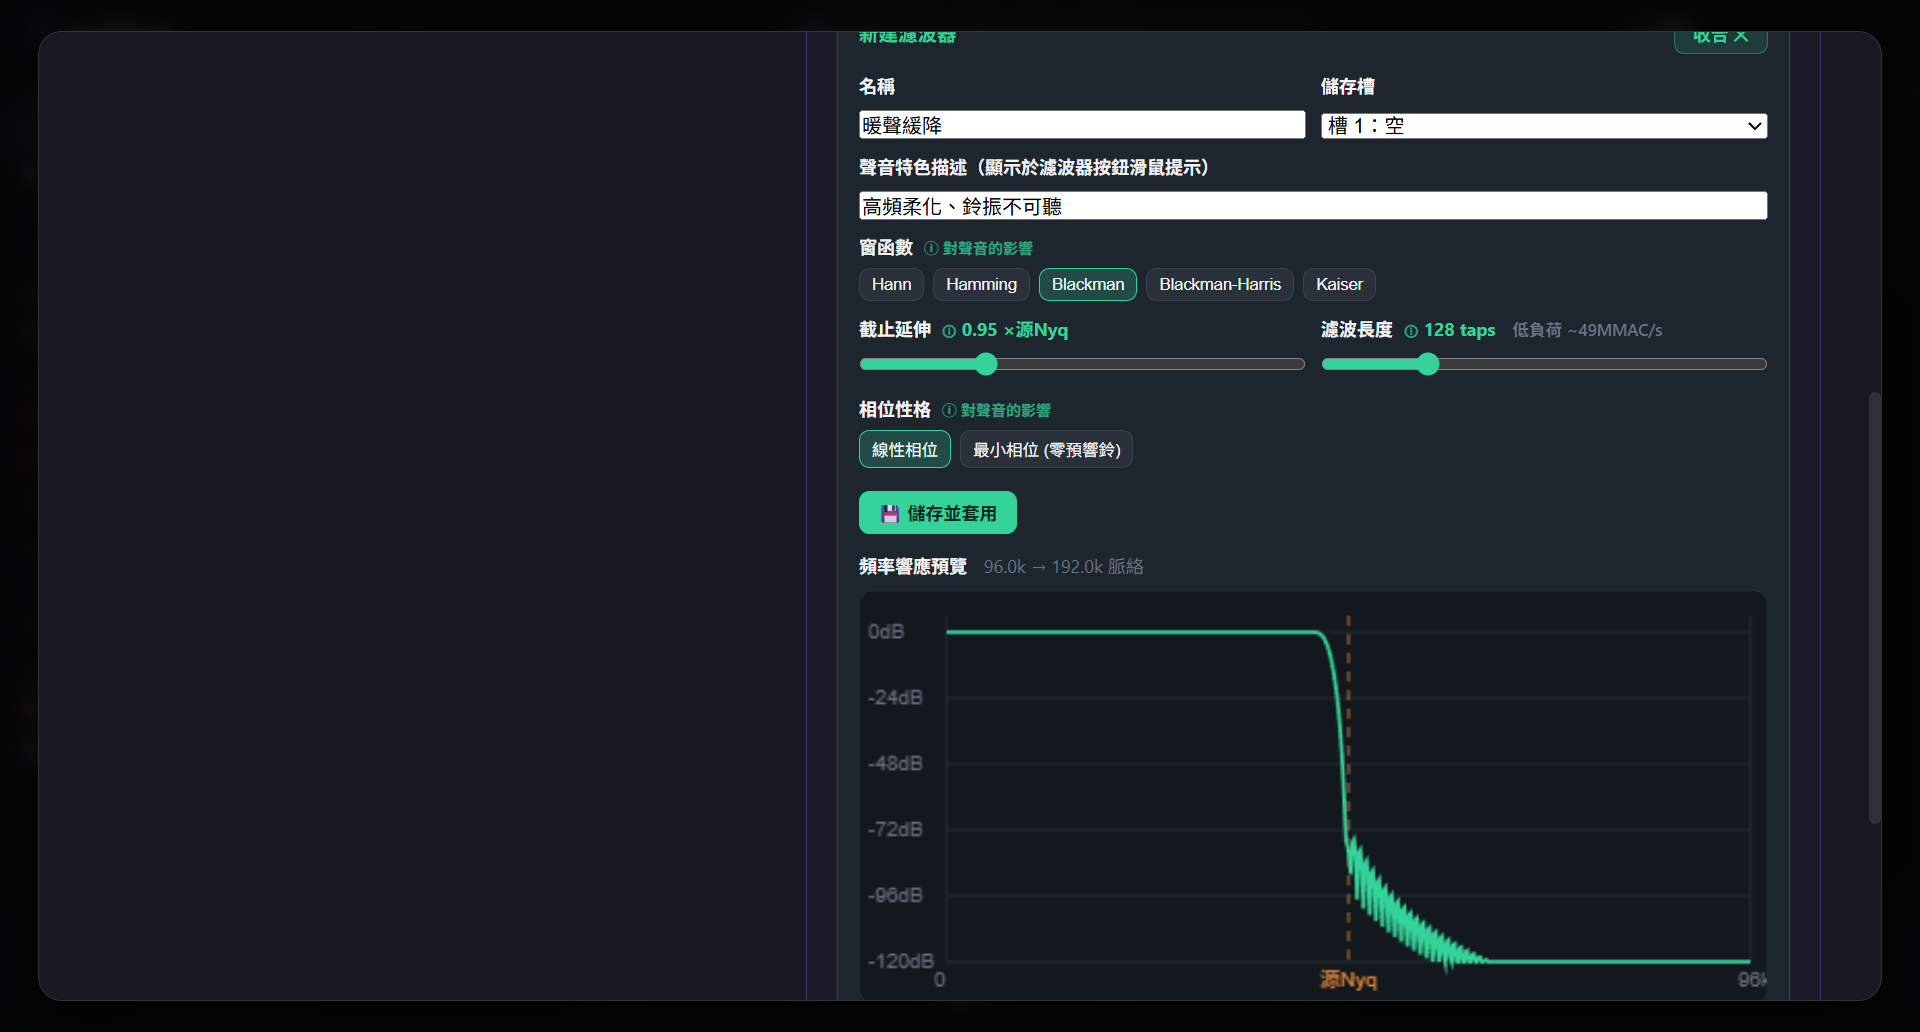
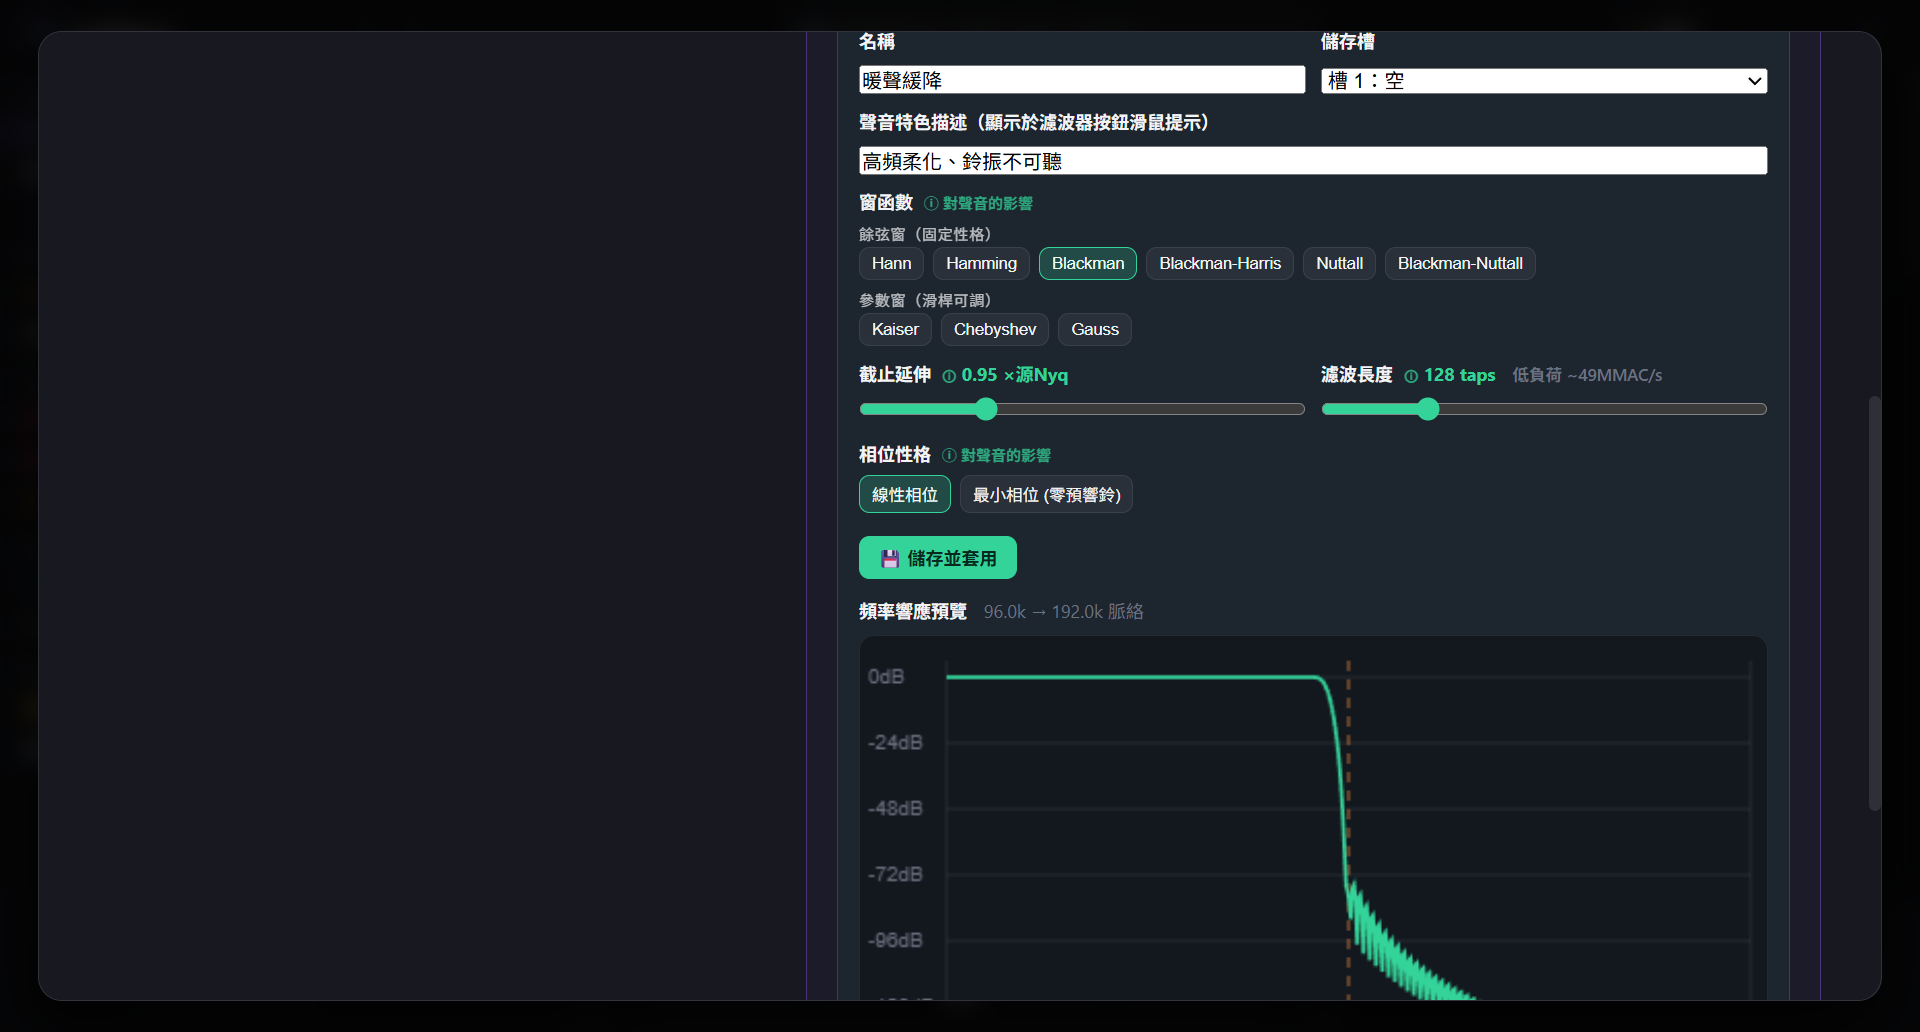
濾波工具箱：新增 Nuttall、Blackman-Nuttall、Gauss、Chebyshev 四種窗函數
自訂濾波器編輯器的窗函數由 5 種擴充為 9 種，並依性格分為兩組
（餘弦窗＝固定性格／參數窗＝滑桿可調）：

- nuttall / blackmanNuttall：4 項餘弦、邊界近零且導數連續，旁瓣隨頻率
  衰減比 Blackman-Harris 快；實測鏡像帶抑制 -127.1/-125.9dB，比
  Blackman-Harris (-114.6dB) 深約 12dB，過渡帶寬度相同。
- gauss（σ 滑桿 0.20–0.50 ×L，預設 0.30）：高斯窗頻譜也是高斯——完全
  無旁瓣漣波、單調滾降；σ=0.30 鏡像 -107.3dB、σ=0.25 更深。與內建
  gauss 性格濾波的设计一致，工具箱自此可直接調整高斯窗寬。
- chebyshev（沿用止帶深度滑桿）：等漣波窗，正確構造為「Chebyshev 多項式
  值是窗的頻域取樣、窗樣本=其 IDFT」（scipy chebwin 同法）；止帶平坦恰
  在設定深度，高止帶設定下緊接轉折處抑制最深。

引擎端：sincWindowTapFn 新增三條窗分支（chebyshev 以 O(M²) 餘弦合成求
窗樣本，M=2L+1 ≤ 1025，設計期一次性成本）；validateUserFilterSpec 新增
sigmaRel 夾限（0.2–0.5，預設 0.3）並通過 USER_FILTER_WINDOWS 驗證；
design() 將 sigmaRel 傳入線性/最小相位兩條路徑。

UI：窗按鈕分組標籤（.uf-seg-group）、Gauss σ 滑桿列（僅 gauss 顯示）、
止帶深度列改供 kaiser/chebyshev 共用、槽摘要顯示 σ/止帶參數。

測試：test-user-filters.js 新增第 9 節（四新窗 FIR 通帶≈1/鏡像深度、
nuttall 必須比 blackmanHarris 深、chebyshev 最小相位變體因果、sigmaRel
夾限、gauss 預覽曲線）；測鏡像的相關窗改為差頻整數週期長度 N=1764，
消除通帶音相關洩漏噪底（舊法噪底 -66dB 掩蓋真實止帶）。
回歸：18 golden md5 全數 bit-identical、test-dsd-parallel 0 mismatches、
boundary SEAMLESS、filter-plugins/conv/peq-signalpath 全 PASS、
--test-versions PASS。docs/img 截圖重建（toolbox 呈現新分組 UI）。

diff --git a/dsp-kernel.js b/dsp-kernel.js
@@ -378,7 +378,8 @@ function buildHqpPsExt2Filter(fsOut, srcRate) {
 // 泛用 windowed-sinc FIR 設計原語（供濾波器插件與使用者自訂濾波使用）：
 //   cutoffRel = 截止 / 源Nyquist（可 >1，extended 性格；上限 0.45·fsOut）
 //   taps      = 半寬 L（輸出樣本單位）
-//   window    = 'hann' | 'hamming' | 'blackman' | 'blackmanHarris' | 'kaiser'(需 asDb)
+//   window    = 'hann' | 'hamming' | 'blackman' | 'blackmanHarris' | 'nuttall' | 'blackmanNuttall'
+//             | 'kaiser'(需 asDb) | 'chebyshev'(需 asDb) | 'gauss'(需 sigmaRel=σ/L)
 // sincWindowTapFn 回傳未正規化的 tap 函數與網格參數（可餵給 minimumPhaseFromTapFn）；
 // windowedSincFir 增益正規化與子樣本网格慣例與內建 FIR 完全相同（Σh = ratio·S）。
 // ---------------------------------------------------------------------------
@@ -394,7 +395,11 @@ function sincWindowTapFn(fsOut, srcRate, opts) {
     hann: (u) => 0.5 + 0.5 * Math.cos(Math.PI * u),
     hamming: (u) => 0.54 + 0.46 * Math.cos(Math.PI * u),
     blackman: (u) => 0.42 + 0.5 * Math.cos(Math.PI * u) + 0.08 * Math.cos(2 * Math.PI * u),
-    blackmanHarris: (u) => 0.35872 + 0.48804 * Math.cos(Math.PI * u) + 0.14124 * Math.cos(2 * Math.PI * u) + 0.010564 * Math.cos(3 * Math.PI * u)
+    blackmanHarris: (u) => 0.35872 + 0.48804 * Math.cos(Math.PI * u) + 0.14124 * Math.cos(2 * Math.PI * u) + 0.010564 * Math.cos(3 * Math.PI * u),
+    // Nuttall 家族（4 項餘弦、邊界近零且導數連續）：旁瓣隨頻率衰減比 Blackman-Harris 快，
+    // 鏡像帶抑制更深（實測鏡像頻比 Blackman-Harris 深約 12dB，過渡帶寬度相同）。
+    nuttall: (u) => 0.355768 + 0.487396 * Math.cos(Math.PI * u) + 0.144232 * Math.cos(2 * Math.PI * u) + 0.012284 * Math.cos(3 * Math.PI * u),
+    blackmanNuttall: (u) => 0.3635819 + 0.4891775 * Math.cos(Math.PI * u) + 0.1365995 * Math.cos(2 * Math.PI * u) + 0.0106411 * Math.cos(3 * Math.PI * u)
   };
   const wName = opts.window || 'blackmanHarris';
   let winFn;
@@ -403,6 +408,32 @@ function sincWindowTapFn(fsOut, srcRate, opts) {
     const beta = 0.1102 * (asDb - 8.7);
     const i0b = besselI0(beta);
     winFn = (u) => besselI0(beta * Math.sqrt(Math.max(0, 1 - u * u))) / i0b;
+  } else if (wName === 'gauss') {
+    // 高斯窗：頻譜也是高斯——完全無旁瓣漣波、單調滾降；sigmaRel = σ/L 控制截斷深度
+    // （σ 越小止帶越深但過渡帶越寬；0.25→鏡像約 -134dB、0.40→約 -89dB @L=128）。
+    const s = Math.min(0.5, Math.max(0.2, opts.sigmaRel || 0.3));
+    winFn = (u) => Math.exp(-(u * u) / (2 * s * s));
+  } else if (wName === 'chebyshev') {
+    // 等漣波窗（scipy chebwin 構造）：Chebyshev 多項式值是窗的頻域取樣，窗樣本 = 其 IDFT。
+    // 止帶平坦恰在設定深度（不隨頻率加深）；高止帶設定下緊接轉折處抑制最深。
+    const asDb = opts.asDb || 100;
+    const M = 2 * L + 1, order = M - 1;
+    const A = Math.pow(10, asDb / 20);
+    const beta = Math.cosh(Math.acosh(A) / order);
+    const chebT = (x) => (x > 1 ? Math.cosh(order * Math.acosh(x))
+      : (x < -1 ? (order % 2 === 0 ? 1 : -1) * Math.cosh(order * Math.acosh(-x))
+        : Math.cos(order * Math.acos(Math.min(Math.max(x, -1), 1)))));
+    const p = new Float64Array(M);
+    for (let k = 0; k < M; k++) p[k] = chebT(beta * Math.cos((Math.PI * k) / M));
+    const wr = new Float64Array(L + 1);
+    let wmax = 0;
+    for (let j = 0; j <= L; j++) {
+      let acc = 0;
+      for (let k = 0; k < M; k++) acc += p[k] * Math.cos((2 * Math.PI * k * j) / M);
+      wr[j] = acc;
+      if (Math.abs(acc) > wmax) wmax = Math.abs(acc);
+    }
+    winFn = (u) => wr[Math.min(L, Math.max(0, Math.round(Math.abs(u) * L)))] / wmax;
   } else {
     winFn = winFns[wName] || winFns.blackmanHarris;
   }
@@ -541,8 +572,8 @@ function registerCoreFallbackFilters() {
 // 任何異常回傳 null → 該槽不註冊 → 選取它的設定自動退回線性相位。
 // 槽 id 固定為 uf-1..uf-6（與 PEQ 儲存槽相同的 6 槽慣例）。
 // ---------------------------------------------------------------------------
-const USER_FILTER_WINDOWS = ['hann', 'hamming', 'blackman', 'blackmanHarris', 'kaiser'];
-const USER_FILTER_LIMITS = { cutoffMin: 0.8, cutoffMax: 1.35, tapsMin: 16, tapsMax: 512, asMin: 40, asMax: 180 };
+const USER_FILTER_WINDOWS = ['hann', 'hamming', 'blackman', 'blackmanHarris', 'kaiser', 'nuttall', 'blackmanNuttall', 'gauss', 'chebyshev'];
+const USER_FILTER_LIMITS = { cutoffMin: 0.8, cutoffMax: 1.35, tapsMin: 16, tapsMax: 512, asMin: 40, asMax: 180, sigmaMin: 0.2, sigmaMax: 0.5 };
 
 function validateUserFilterSpec(spec) {
   if (!spec || typeof spec !== 'object') return null;
@@ -557,7 +588,8 @@ function validateUserFilterSpec(spec) {
   const cutoffRel = Math.min(USER_FILTER_LIMITS.cutoffMax, Math.max(USER_FILTER_LIMITS.cutoffMin, num(spec.cutoffRel, 1.135)));
   const taps = Math.round(Math.min(USER_FILTER_LIMITS.tapsMax, Math.max(USER_FILTER_LIMITS.tapsMin, num(spec.taps, 96))));
   const asDb = Math.round(Math.min(USER_FILTER_LIMITS.asMax, Math.max(USER_FILTER_LIMITS.asMin, num(spec.asDb, 100))));
-  return { id: spec.id, name, sound, window, phase, cutoffRel, taps, asDb };
+  const sigmaRel = Math.min(USER_FILTER_LIMITS.sigmaMax, Math.max(USER_FILTER_LIMITS.sigmaMin, num(spec.sigmaRel, 0.3)));
+  return { id: spec.id, name, sound, window, phase, cutoffRel, taps, asDb, sigmaRel };
 }
 
 function userFilterSpecToDescriptor(spec) {
@@ -572,10 +604,10 @@ function userFilterSpecToDescriptor(spec) {
     design(fsOut, srcRate, kernel) {
       const Lcap = Math.floor(150e6 / srcRate / 2); // 引擎成本上限（同內建 FIR 慣例）
       const L = Math.max(8, Math.min(v.taps, Lcap > 0 ? Lcap : v.taps));
-      const w = kernel.sincWindowTapFn(fsOut, srcRate, { cutoffRel: v.cutoffRel, L, window: v.window, asDb: v.asDb });
+      const w = kernel.sincWindowTapFn(fsOut, srcRate, { cutoffRel: v.cutoffRel, L, window: v.window, asDb: v.asDb, sigmaRel: v.sigmaRel });
       if (!w) return null;
       if (v.phase === 'minimum') return kernel.minimumPhaseFromTapFn(fsOut, srcRate, L, w.S, w.tapFn);
-      return kernel.windowedSincFir(fsOut, srcRate, { cutoffRel: v.cutoffRel, taps: L, window: v.window, asDb: v.asDb });
+      return kernel.windowedSincFir(fsOut, srcRate, { cutoffRel: v.cutoffRel, taps: L, window: v.window, asDb: v.asDb, sigmaRel: v.sigmaRel });
     }
   };
 }

diff --git a/index.html b/index.html
@@ -1996,17 +1996,31 @@
                     </div>
                     <div class="uf-field">
                       <label title="窗函數決定「過渡帶寬度」與「鏡像抑制深度」的取捨：過渡越窄=高頻越精準鮮明；止帶越深=背景越黑、鏡像泄漏越不可聽">窗函數 <span class="uf-info">ⓘ 對聲音的影響</span></label>
-                      <div class="uf-seg" id="ufWindowSeg">
-                        <button class="uf-seg-btn" data-window="hann" title="Hann：過渡帶窄，高頻轉折精準鮮明；止帶較淺(-31dB)，些微鏡像泄漏通常在超聲頻不可聽">Hann</button>
-                        <button class="uf-seg-btn" data-window="hamming" title="Hamming：與 Hann 相近但鏡像抑制較深(-42dB)；高頻聽感些微明亮">Hamming</button>
-                        <button class="uf-seg-btn" data-window="blackman" title="Blackman：過渡帶較寬，高頻以柔和斜率緩降、聽感溫潤；鏡像泄漏 -58dB 不可聽">Blackman</button>
-                        <button class="uf-seg-btn active" data-window="blackmanHarris" title="Blackman-Harris：止帶極深(-92dB)、鏡像完全不可聽；過渡帶略寬於 Blackman，整體乾淨透明">Blackman-Harris</button>
-                        <button class="uf-seg-btn" data-window="kaiser" title="Kaiser：用下方「止帶深度」滑桿自由取捨——60dB 溫潤柔和，140dB 以上參考級乾淨">Kaiser</button>
+                      <div id="ufWindowSeg">
+                        <div class="uf-seg-group">餘弦窗（固定性格）</div>
+                        <div class="uf-seg">
+                          <button class="uf-seg-btn" data-window="hann" title="Hann：過渡帶窄，高頻轉折精準鮮明；止帶較淺(-31dB)，些微鏡像泄漏通常在超聲頻不可聽">Hann</button>
+                          <button class="uf-seg-btn" data-window="hamming" title="Hamming：與 Hann 相近但鏡像抑制較深(-42dB)；高頻聽感些微明亮">Hamming</button>
+                          <button class="uf-seg-btn" data-window="blackman" title="Blackman：過渡帶較寬，高頻以柔和斜率緩降、聽感溫潤；鏡像泄漏 -58dB 不可聽">Blackman</button>
+                          <button class="uf-seg-btn active" data-window="blackmanHarris" title="Blackman-Harris：止帶極深(-92dB)、鏡像完全不可聽；過渡帶略寬於 Blackman，整體乾淨透明">Blackman-Harris</button>
+                          <button class="uf-seg-btn" data-window="nuttall" title="Nuttall：過渡帶與 Blackman-Harris 同寬，但旁瓣隨頻率衰減更快——鏡像帶抑制再深約 12dB，遠處背景更黑">Nuttall</button>
+                          <button class="uf-seg-btn" data-window="blackmanNuttall" title="Blackman-Nuttall：Nuttall 家族的平衡版，旁瓣峰值略低；鏡像抑制略淺於 Nuttall，其餘特性相近">Blackman-Nuttall</button>
+                        </div>
+                        <div class="uf-seg-group">參數窗（滑桿可調）</div>
+                        <div class="uf-seg">
+                          <button class="uf-seg-btn" data-window="kaiser" title="Kaiser：用下方「止帶深度」滑桿自由取捨——60dB 溫潤柔和，140dB 以上參考級乾淨">Kaiser</button>
+                          <button class="uf-seg-btn" data-window="chebyshev" title="Chebyshev（等漣波）：用下方「止帶深度」滑桿——止帶平坦恰在設定深度；高止帶設定下緊接轉折處的抑制比 Kaiser 更深，截止聽感最銳利">Chebyshev</button>
+                          <button class="uf-seg-btn" data-window="gauss" title="Gauss：完全無旁瓣漣波（高斯頻譜單調滾降）——零鏡像泄漏、零鈴振；用下方「Gauss 窗寬 σ」滑桿取捨：σ 小止帶深且柔，σ 大截止直接">Gauss</button>
+                        </div>
                       </div>
                     </div>
                     <div class="uf-field" id="ufAsRow" style="display:none;">
                       <label title="止帶深度＝鏡像與雜訊被壓低多少 dB：數值越小過渡帶越窄高頻越鮮明(聽感偏直接)；越大背景越黑高頻越柔(聽感偏潤色)">止帶深度 <span class="uf-info">ⓘ</span> <span class="uf-val" id="ufAsVal">100 dB</span></label>
                       <input type="range" id="ufAsSlider" min="40" max="180" step="5" value="100">
+                    </div>
+                    <div class="uf-field" id="ufSigmaRow" style="display:none;">
+                      <label title="σ 是窗寬相對濾波長度的比例：σ 越小窗越窄、止帶越深背景越黑，但過渡帶變寬、高頻更早開始滾降；σ 越大截止越直接鮮明，但截斷使止帶變淺">Gauss 窗寬 σ <span class="uf-info">ⓘ</span> <span class="uf-val" id="ufSigmaVal">0.30 ×L</span></label>
+                      <input type="range" id="ufSigmaSlider" min="20" max="50" step="1" value="30">
                     </div>
                     <div class="uf-grid2">
                       <div class="uf-field">

diff --git a/app.js b/app.js
@@ -7102,7 +7102,7 @@ let ufSlots = [];
 let ufEditingId = null;
 let ufPreviewTimer = null;
 
-const UF_WINDOW_LABELS = { hann: 'Hann', hamming: 'Hamming', blackman: 'Blackman', blackmanHarris: 'Blackman-Harris', kaiser: 'Kaiser' };
+const UF_WINDOW_LABELS = { hann: 'Hann', hamming: 'Hamming', blackman: 'Blackman', blackmanHarris: 'Blackman-Harris', kaiser: 'Kaiser', nuttall: 'Nuttall', blackmanNuttall: 'Blackman-Nuttall', gauss: 'Gauss', chebyshev: 'Chebyshev' };
 
 function ufPreviewContext() {
   const track = (state.queue && state.queue[0]) || (state.tracks && state.tracks[0]) || null;
@@ -7165,7 +7165,8 @@ function ufSpecFromForm() {
     phase: phaseBtn ? phaseBtn.getAttribute('data-phase') : 'linear',
     cutoffRel: (parseInt(document.getElementById('ufCutSlider').value, 10) || 113) / 100,
     taps: parseInt(document.getElementById('ufTapSlider').value, 10) || 96,
-    asDb: parseInt(document.getElementById('ufAsSlider').value, 10) || 100
+    asDb: parseInt(document.getElementById('ufAsSlider').value, 10) || 100,
+    sigmaRel: (parseInt(document.getElementById('ufSigmaSlider').value, 10) || 30) / 100
   };
 }
 
@@ -7174,7 +7175,9 @@ function ufUpdateFormReadouts() {
   document.getElementById('ufAsVal').textContent = spec.asDb + ' dB';
   document.getElementById('ufCutVal').textContent = spec.cutoffRel.toFixed(2) + ' ×源Nyq';
   document.getElementById('ufTapVal').textContent = spec.taps + ' taps';
-  document.getElementById('ufAsRow').style.display = spec.window === 'kaiser' ? '' : 'none';
+  document.getElementById('ufSigmaVal').textContent = spec.sigmaRel.toFixed(2) + ' ×L';
+  document.getElementById('ufAsRow').style.display = (spec.window === 'kaiser' || spec.window === 'chebyshev') ? '' : 'none';
+  document.getElementById('ufSigmaRow').style.display = spec.window === 'gauss' ? '' : 'none';
   const ctx = ufPreviewContext();
   const mmac = Math.round(spec.taps * ctx.targetRate * 2 / 1e6);
   const badge = document.getElementById('ufLoadBadge');
@@ -7283,6 +7286,7 @@ function openUfEditor(slotId) {
   document.getElementById('ufCutSlider').value = slot ? Math.round(slot.cutoffRel * 100) : 113;
   document.getElementById('ufTapSlider').value = slot ? slot.taps : 96;
   document.getElementById('ufAsSlider').value = slot ? slot.asDb : 100;
+  document.getElementById('ufSigmaSlider').value = slot ? Math.round((slot.sigmaRel || 0.3) * 100) : 30;
   const win = slot ? slot.window : 'blackmanHarris';
   document.querySelectorAll('#ufWindowSeg .uf-seg-btn').forEach(b => b.classList.toggle('active', b.getAttribute('data-window') === win));
   const phase = slot ? slot.phase : 'linear';
@@ -7357,7 +7361,7 @@ function renderUfManageList() {
     nm.textContent = `🔧 ${s.name}`;
     const sp = document.createElement('div');
     sp.className = 'uf-mr-spec';
-    sp.textContent = `${UF_WINDOW_LABELS[s.window] || s.window} 窗・截止 ${s.cutoffRel.toFixed(2)}×・${s.taps} taps・${s.phase === 'minimum' ? '最小相位' : '線性相位'}${s.window === 'kaiser' ? '・止帶 ' + s.asDb + 'dB' : ''}`;
+    sp.textContent = `${UF_WINDOW_LABELS[s.window] || s.window} 窗・截止 ${s.cutoffRel.toFixed(2)}×・${s.taps} taps・${s.phase === 'minimum' ? '最小相位' : '線性相位'}${(s.window === 'kaiser' || s.window === 'chebyshev') ? '・止帶 ' + s.asDb + 'dB' : ''}${s.window === 'gauss' ? '・σ ' + (s.sigmaRel || 0.3).toFixed(2) : ''}`;
     info.appendChild(nm);
     info.appendChild(sp);
     const acts = document.createElement('div');

diff --git a/style.css b/style.css
@@ -2224,6 +2224,18 @@ body.table-col-resizing * {
   gap: 6px;
 }
 
+.uf-seg-group {
+  font-size: 10px;
+  color: var(--text-secondary);
+  opacity: 0.75;
+  letter-spacing: 0.5px;
+  margin: 6px 0 2px;
+}
+
+.uf-seg-group:first-child {
+  margin-top: 0;
+}
+
 .uf-seg-btn {
   background: rgba(255, 255, 255, 0.05);
   border: 1px solid var(--border-color);
